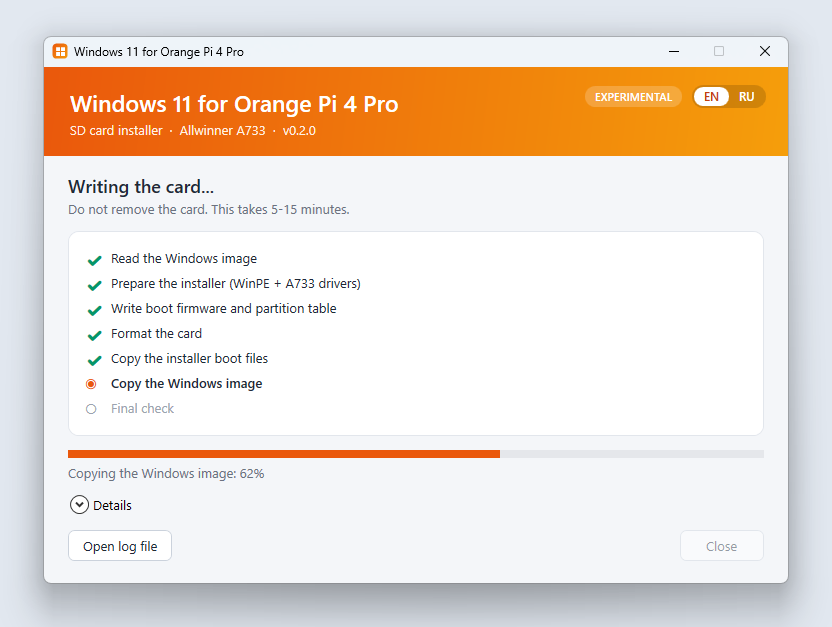
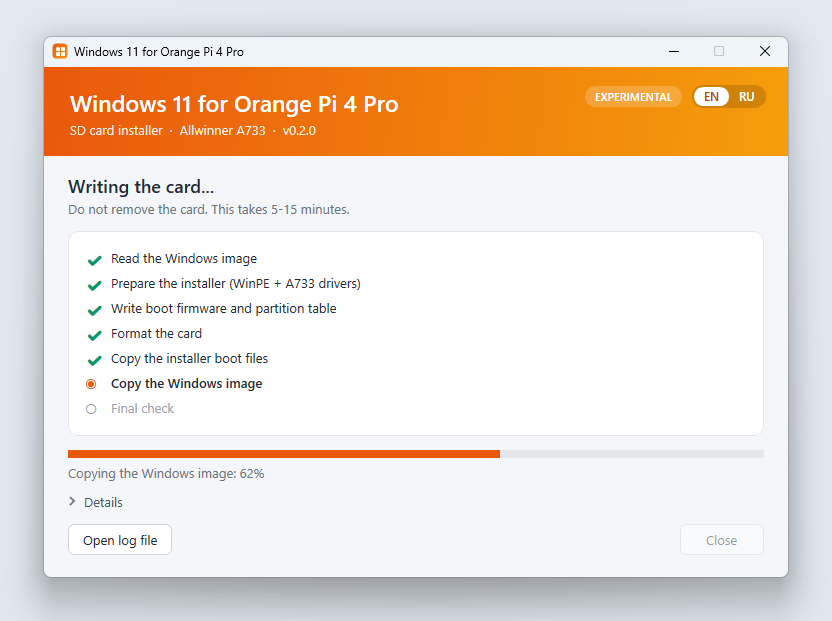
Installer exe: clear messages for wrong images, styled checkbox, step badges, error box
- not a Windows image / split .swm / unreadable ISO / x64 image get their own
  localized messages instead of internal English errors
- step numbers turn into green checks when the step is done
- styled checkbox, link and details expander; footer separator

diff --git a/app/A733Installer/MainWindow.xaml b/app/A733Installer/MainWindow.xaml
@@ -117,8 +117,72 @@
         </Setter.Value>
       </Setter>
     </Style>
-    <Style x:Key="Lang" TargetType="Button">
-      <Setter Property="Foreground" Value="White"/>
+    <Style TargetType="CheckBox">
+      <Setter Property="Cursor" Value="Hand"/>
+      <Setter Property="Template">
+        <Setter.Value>
+          <ControlTemplate TargetType="CheckBox">
+            <StackPanel Orientation="Horizontal" Background="Transparent">
+              <Border x:Name="Box" Width="19" Height="19" CornerRadius="5" BorderThickness="1.5" BorderBrush="#9CA3AF" Background="White" VerticalAlignment="Center">
+                <Path x:Name="Mark" Data="M 3.5 8.5 L 7 12 L 13 5" Stroke="White" StrokeThickness="2.2"
+                      StrokeStartLineCap="Round" StrokeEndLineCap="Round" StrokeLineJoin="Round" Visibility="Collapsed"/>
+              </Border>
+              <ContentPresenter Margin="10,0,0,0" VerticalAlignment="Center"/>
+            </StackPanel>
+            <ControlTemplate.Triggers>
+              <Trigger Property="IsMouseOver" Value="True"><Setter TargetName="Box" Property="BorderBrush" Value="#EA580C"/></Trigger>
+              <Trigger Property="IsChecked" Value="True">
+                <Setter TargetName="Box" Property="Background" Value="#EA580C"/>
+                <Setter TargetName="Box" Property="BorderBrush" Value="#EA580C"/>
+                <Setter TargetName="Mark" Property="Visibility" Value="Visible"/>
+              </Trigger>
+            </ControlTemplate.Triggers>
+          </ControlTemplate>
+        </Setter.Value>
+      </Setter>
+    </Style>
+    <Style TargetType="Hyperlink">
+      <Setter Property="Foreground" Value="#C2410C"/>
+      <Setter Property="TextDecorations" Value="{x:Null}"/>
+      <Style.Triggers>
+        <Trigger Property="IsMouseOver" Value="True"><Setter Property="TextDecorations" Value="Underline"/></Trigger>
+      </Style.Triggers>
+    </Style>
+    <Style TargetType="Expander">
+      <Setter Property="Template">
+        <Setter.Value>
+          <ControlTemplate TargetType="Expander">
+            <StackPanel>
+              <ToggleButton Cursor="Hand" HorizontalAlignment="Left" Content="{TemplateBinding Header}"
+                            IsChecked="{Binding IsExpanded, Mode=TwoWay, RelativeSource={RelativeSource TemplatedParent}}">
+                <ToggleButton.Template>
+                  <ControlTemplate TargetType="ToggleButton">
+                    <StackPanel Orientation="Horizontal" Background="Transparent">
+                      <Path x:Name="Chev" Data="M 0 0 L 4 4 L 0 8" Stroke="#6B7280" StrokeThickness="1.7" VerticalAlignment="Center"
+                            Margin="2,0,9,0" RenderTransformOrigin="0.5,0.5">
+                        <Path.RenderTransform><RotateTransform Angle="0"/></Path.RenderTransform>
+                      </Path>
+                      <ContentPresenter VerticalAlignment="Center" TextElement.Foreground="#4B5563"/>
+                    </StackPanel>
+                    <ControlTemplate.Triggers>
+                      <Trigger Property="IsChecked" Value="True">
+                        <Setter TargetName="Chev" Property="RenderTransform"><Setter.Value><RotateTransform Angle="90"/></Setter.Value></Setter>
+                      </Trigger>
+                      <Trigger Property="IsMouseOver" Value="True"><Setter TargetName="Chev" Property="Stroke" Value="#EA580C"/></Trigger>
+                    </ControlTemplate.Triggers>
+                  </ControlTemplate>
+                </ToggleButton.Template>
+              </ToggleButton>
+              <ContentPresenter x:Name="Body" Visibility="Collapsed"/>
+            </StackPanel>
+            <ControlTemplate.Triggers>
+              <Trigger Property="IsExpanded" Value="True"><Setter TargetName="Body" Property="Visibility" Value="Visible"/></Trigger>
+            </ControlTemplate.Triggers>
+          </ControlTemplate>
+        </Setter.Value>
+      </Setter>
+    </Style>
+    <Style x:Key="Lang" TargetType="Button">      <Setter Property="Foreground" Value="White"/>
       <Setter Property="FontSize" Value="11.5"/>
       <Setter Property="FontWeight" Value="SemiBold"/>
       <Setter Property="Cursor" Value="Hand"/>
@@ -172,7 +236,7 @@
 
       <Border Style="{StaticResource Card}">
         <DockPanel>
-          <Border Style="{StaticResource Num}"><TextBlock Text="1" Foreground="#C2410C" FontWeight="Bold" HorizontalAlignment="Center" VerticalAlignment="Center"/></Border>
+          <Border x:Name="Num1" Style="{StaticResource Num}"><TextBlock x:Name="Num1Text" Text="1" Foreground="#C2410C" FontWeight="Bold" HorizontalAlignment="Center" VerticalAlignment="Center"/></Border>
           <StackPanel>
             <TextBlock x:Name="S1Title" FontWeight="SemiBold" FontSize="14"/>
             <TextBlock x:Name="S1Hint" Foreground="#6B7280" Margin="0,1,0,8"/>
@@ -186,7 +250,7 @@
 
       <Border Style="{StaticResource Card}">
         <DockPanel>
-          <Border Style="{StaticResource Num}"><TextBlock Text="2" Foreground="#C2410C" FontWeight="Bold" HorizontalAlignment="Center" VerticalAlignment="Center"/></Border>
+          <Border x:Name="Num2" Style="{StaticResource Num}"><TextBlock x:Name="Num2Text" Text="2" Foreground="#C2410C" FontWeight="Bold" HorizontalAlignment="Center" VerticalAlignment="Center"/></Border>
           <StackPanel>
             <TextBlock x:Name="S2Title" FontWeight="SemiBold" FontSize="14"/>
             <TextBlock Foreground="#6B7280" Margin="0,1,0,8" TextWrapping="Wrap">
@@ -205,7 +269,7 @@
 
       <Border Style="{StaticResource Card}">
         <DockPanel>
-          <Border Style="{StaticResource Num}"><TextBlock Text="3" Foreground="#C2410C" FontWeight="Bold" HorizontalAlignment="Center" VerticalAlignment="Center"/></Border>
+          <Border x:Name="Num3" Style="{StaticResource Num}"><TextBlock x:Name="Num3Text" Text="3" Foreground="#C2410C" FontWeight="Bold" HorizontalAlignment="Center" VerticalAlignment="Center"/></Border>
           <StackPanel>
             <TextBlock x:Name="S3Title" FontWeight="SemiBold" FontSize="14"/>
             <TextBlock x:Name="S3Hint" Foreground="#6B7280" Margin="0,1,0,8"/>
@@ -214,9 +278,17 @@
         </DockPanel>
       </Border>
 
-      <TextBlock x:Name="Status" Foreground="#B91C1C" TextWrapping="Wrap" Margin="2,2,0,10" Visibility="Collapsed"/>
+      <Border x:Name="StatusBox" Background="#FEF2F2" BorderBrush="#FECACA" BorderThickness="1" CornerRadius="8" Padding="10,8" Margin="0,0,0,12" Visibility="Collapsed">
+        <DockPanel>
+          <Border DockPanel.Dock="Left" Width="20" Height="20" CornerRadius="10" Background="#DC2626" Margin="0,0,10,0" VerticalAlignment="Top">
+            <TextBlock Text="!" Foreground="White" FontWeight="Bold" HorizontalAlignment="Center" VerticalAlignment="Center"/>
+          </Border>
+          <TextBlock x:Name="Status" Foreground="#991B1B" TextWrapping="Wrap" VerticalAlignment="Center"/>
+        </DockPanel>
+      </Border>
 
-      <DockPanel Margin="0,4,0,0">
+      <Border Height="1" Background="#E2E6EC" Margin="0,2,0,14"/>
+      <DockPanel Margin="0,0,0,0">
         <Button x:Name="StartBtn" DockPanel.Dock="Right" Style="{StaticResource Accent}" IsEnabled="False"/>
         <CheckBox x:Name="AgreeBox" VerticalAlignment="Center" VerticalContentAlignment="Center">
           <TextBlock x:Name="AgreeText" TextWrapping="Wrap"/>

diff --git a/app/A733Installer/MainWindow.xaml.cs b/app/A733Installer/MainWindow.xaml.cs
@@ -82,6 +82,7 @@ namespace A733Installer
             };
             Closing += OnClosing;
             ApplyLang();
+            UpdateStart();
         }
 
         // ------------------------------------------------------------------ texts
@@ -102,7 +103,7 @@ namespace A733Installer
             if (SourceText.Tag as string != "set") SourceText.Text = T("NotSelected");
             S3Title.Text = T("S3Title"); S3Hint.Text = T("S3Hint");
             AgreeText.Text = T("Agree"); StartBtn.Content = T("Start");
-            if (statusKey != null) Status.Text = string.Format(T(statusKey), statusArg == "NoArm" ? T("NoArm") : statusArg);
+            if (statusKey != null) Status.Text = string.Format(T(statusKey), statusArg ?? "");
             DoneHead.Text = T("DoneHead"); DoneText.Text = T("DoneText"); FailHead.Text = T("FailHead");
             LogExpander.Header = T("Details"); LogBtn.Content = T("OpenLog"); CloseBtn.Content = T("Close");
             if (phase != "setup") RenderProgress();
@@ -111,13 +112,26 @@ namespace A733Installer
         void SetStatus(string key, string arg = null)
         {
             statusKey = key; statusArg = arg;
-            if (key == null) { Status.Visibility = Visibility.Collapsed; return; }
-            Status.Text = string.Format(T(key), arg == "NoArm" ? T("NoArm") : arg);
-            Status.Visibility = Visibility.Visible;
+            if (key == null) { StatusBox.Visibility = Visibility.Collapsed; return; }
+            Status.Text = string.Format(T(key), arg ?? "");
+            StatusBox.Visibility = Visibility.Visible;
         }
 
-        void UpdateStart() =>
+        void UpdateStart()
+        {
             StartBtn.IsEnabled = DiskBox.SelectedIndex >= 0 && EditionBox.SelectedIndex >= 0 && AgreeBox.IsChecked == true && source != null;
+            StepBadge(Num1, Num1Text, "1", DiskBox.SelectedIndex >= 0);
+            StepBadge(Num2, Num2Text, "2", source != null);
+            StepBadge(Num3, Num3Text, "3", source != null && EditionBox.SelectedIndex >= 0);
+        }
+
+        // step number circle: orange number, or a green check once the step is done
+        static void StepBadge(Border b, TextBlock t, string n, bool done)
+        {
+            b.Background = done ? Br("#D1FAE5") : Br("#FDE7D9");
+            t.Text = done ? "\u2714" : n;
+            t.Foreground = done ? Br("#059669") : Br("#C2410C");
+        }
 
         // ------------------------------------------------------------------ setup page
         void Fill()
@@ -145,7 +159,7 @@ namespace A733Installer
                     using (var src = new WindowsSource(path))
                         return WindowsSource.Editions(src.InstallImage).Where(e => e.IsArm64).ToList();
                 });
-                if (list.Count == 0) { SetStatus("ImgErr", "NoArm"); }
+                if (list.Count == 0) { SetStatus("ErrNoArm"); }
                 else
                 {
                     editions = list;
@@ -157,9 +171,10 @@ namespace A733Installer
                     }
                     EditionBox.SelectedIndex = pick;
                     source = path;
-                    if (statusKey == "ImgErr") SetStatus(null);
+                    SetStatus(disks.Count == 0 ? "NoCard" : null);
                 }
             }
+            catch (SourceException ex) { SetStatus(ex.Key, ex.Detail); }
             catch (Exception ex) { SetStatus("ImgErr", ex.Message); }
             finally
             {
@@ -281,7 +296,7 @@ namespace A733Installer
                 DiskBox.Items.Clear(); DiskBox.Items.Add("2: Generic STORAGE DEVICE - 61,9 GB (USB)"); DiskBox.SelectedIndex = 0;
                 SourceText.Text = @"D:\Downloads\Win11_25H2_English_Arm64.iso"; SourceText.Tag = "set"; SourceText.Foreground = Dark;
                 EditionBox.Items.Clear(); EditionBox.Items.Add("Windows 11 Pro"); EditionBox.SelectedIndex = 0;
-                AgreeBox.IsChecked = true; StartBtn.IsEnabled = true;
+                AgreeBox.IsChecked = true; source = SourceText.Text; UpdateStart();
             }
             Topmost = true;
             UpdateLayout();

diff --git a/app/A733Installer/Strings.cs b/app/A733Installer/Strings.cs
@@ -21,7 +21,11 @@ namespace A733Installer
                 ["Start"] = "Write card",
                 ["NoCard"] = "No SD card found (15 GB - 1 TB, card reader or USB). Insert the card and press Refresh.",
                 ["ImgErr"] = "Windows image: {0}",
-                ["NoArm"] = "no ARM64 Windows image here. Download \"Windows 11 (Arm64)\" from microsoft.com.",
+                ["ErrNoArm"] = "This Windows image is not for ARM64 (it is for ordinary x64 PCs). Download \"Windows 11 (Arm64)\" from microsoft.com.",
+                ["ErrNotWindows"] = "This is not a Windows installation image (there is no sources\\install.wim inside). Choose the Windows 11 ARM64 ISO.",
+                ["ErrSwm"] = "This image is split into install.swm parts (a re-packed image). Use the original ISO from microsoft.com.",
+                ["ErrMount"] = "Cannot open this ISO file. It may be damaged or incomplete; try downloading it again.",
+                ["ErrRead"] = "Cannot read the Windows image (install.wim). The file may be damaged; try downloading the ISO again.",
                 ["FolderDesc"] = "Folder or USB drive with the extracted Windows 11 ARM64 ISO (contains sources\\install.wim)",
                 ["Confirm"] = "Erase this card and write Windows 11 ({0})?\n\n{1}", ["ConfirmTitle"] = "Confirm",
                 ["ProgTitle"] = "Writing the card...", ["ProgSub"] = "Do not remove the card. This takes 5-15 minutes.",
@@ -50,7 +54,11 @@ namespace A733Installer
                 ["Start"] = "Записать карту",
                 ["NoCard"] = "SD-карта не найдена (15 ГБ - 1 ТБ, кардридер или USB). Вставьте карту и нажмите «Обновить».",
                 ["ImgErr"] = "Образ Windows: {0}",
-                ["NoArm"] = "здесь нет образа Windows для ARM64. Скачайте «Windows 11 (Arm64)» с microsoft.com.",
+                ["ErrNoArm"] = "Этот образ Windows не для ARM64 (он для обычных ПК x64). Скачайте «Windows 11 (Arm64)» с microsoft.com.",
+                ["ErrNotWindows"] = "Это не установочный образ Windows (внутри нет sources\\install.wim). Выберите ISO Windows 11 ARM64.",
+                ["ErrSwm"] = "Этот образ разбит на части install.swm (пересобранный образ). Используйте оригинальный ISO с microsoft.com.",
+                ["ErrMount"] = "Не удаётся открыть этот ISO. Возможно, файл повреждён или скачан не до конца, скачайте его заново.",
+                ["ErrRead"] = "Не удаётся прочитать образ Windows (install.wim). Возможно, файл повреждён, скачайте ISO заново.",
                 ["FolderDesc"] = "Папка или флешка с распакованным ISO Windows 11 ARM64 (в ней есть sources\\install.wim)",
                 ["Confirm"] = "Стереть эту карту и записать Windows 11 ({0})?\n\n{1}", ["ConfirmTitle"] = "Подтверждение",
                 ["ProgTitle"] = "Запись карты...", ["ProgSub"] = "Не вынимайте карту. Это займёт 5-15 минут.",

diff --git a/app/A733Installer/Installer.cs b/app/A733Installer/Installer.cs
@@ -17,6 +17,14 @@ namespace A733Installer
         public override string ToString() => Name;
     }
 
+    /// <summary>A problem with the chosen Windows image; Key is a Strings key (localized in the window).</summary>
+    class SourceException : Exception
+    {
+        public string Key { get; }
+        public string Detail { get; }
+        public SourceException(string key, string message, string detail = null) : base(message) { Key = key; Detail = detail; }
+    }
+
     /// <summary>The Windows source: an .iso (mounted while in use) or a folder / USB drive.</summary>
     class WindowsSource : IDisposable
     {
@@ -34,7 +42,7 @@ namespace A733Installer
                                     "for ($n = 0; $n -lt 20; $n++) { $l = ($i | Get-Volume).DriveLetter; if ($l) { 'LETTER=' + $l; break }; Start-Sleep -Milliseconds 500 }",
                                     out _);
             var m = Regex.Match(o, @"LETTER=([A-Za-z])");
-            if (!m.Success) throw new IOException("cannot mount the ISO: " + o.Trim());
+            if (!m.Success) throw new SourceException("ErrMount", "cannot open the ISO: " + o.Trim(), o.Trim());
             Root = m.Groups[1].Value + ":";
             mounted = true;
         }
@@ -49,8 +57,8 @@ namespace A733Installer
                     if (File.Exists(p)) return p;
                 }
                 if (File.Exists(System.IO.Path.Combine(Root, @"sources\install.swm")))
-                    throw new IOException("split install.swm images are not supported: use the official Microsoft ISO");
-                throw new IOException(@"no sources\install.wim or install.esd here");
+                    throw new SourceException("ErrSwm", "split install.swm images are not supported: use the official Microsoft ISO");
+                throw new SourceException("ErrNotWindows", @"not a Windows installation image (no sources\install.wim or install.esd)");
             }
         }
 
@@ -60,7 +68,7 @@ namespace A733Installer
             var list = new List<Edition>();
             foreach (Match m in Regex.Matches(o, @"Index : (\d+)\s*\r?\nName : ([^\r\n]+)"))
                 list.Add(new Edition { Index = int.Parse(m.Groups[1].Value), Name = m.Groups[2].Value.Trim() });
-            if (list.Count == 0) throw new IOException("cannot read the image list: " + o.Trim());
+            if (list.Count == 0) throw new SourceException("ErrRead", "cannot read the image list: " + o.Trim(), o.Trim());
             foreach (var e in list)
             {
                 Proc.Run(Proc.Sys("dism.exe"), $"/English /Get-WimInfo /WimFile:\"{image}\" /Index:{e.Index}", null, out var d);
